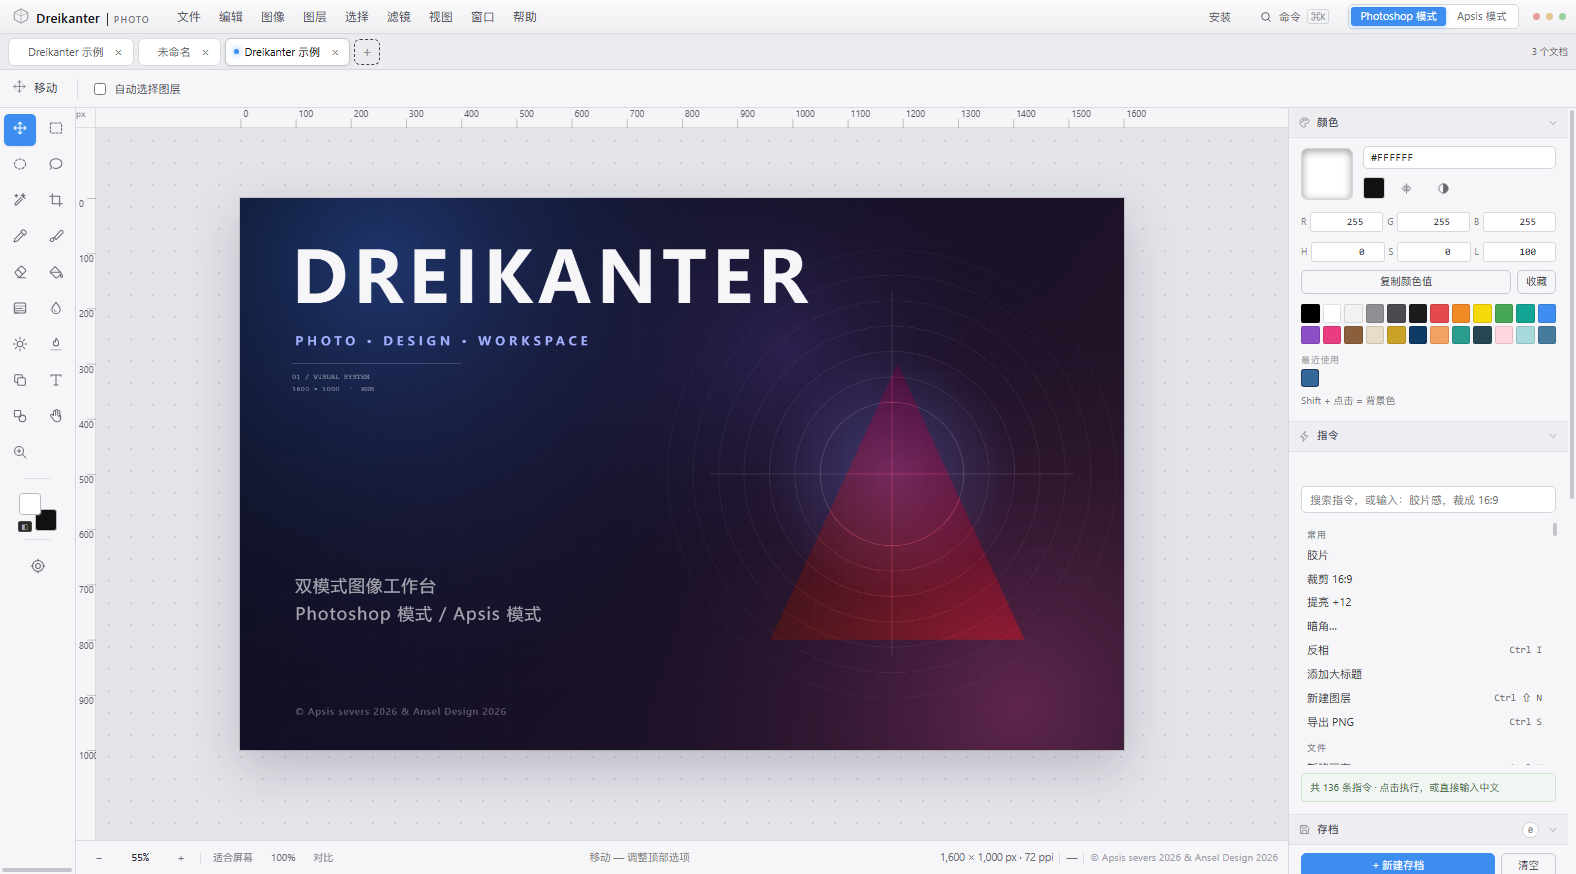
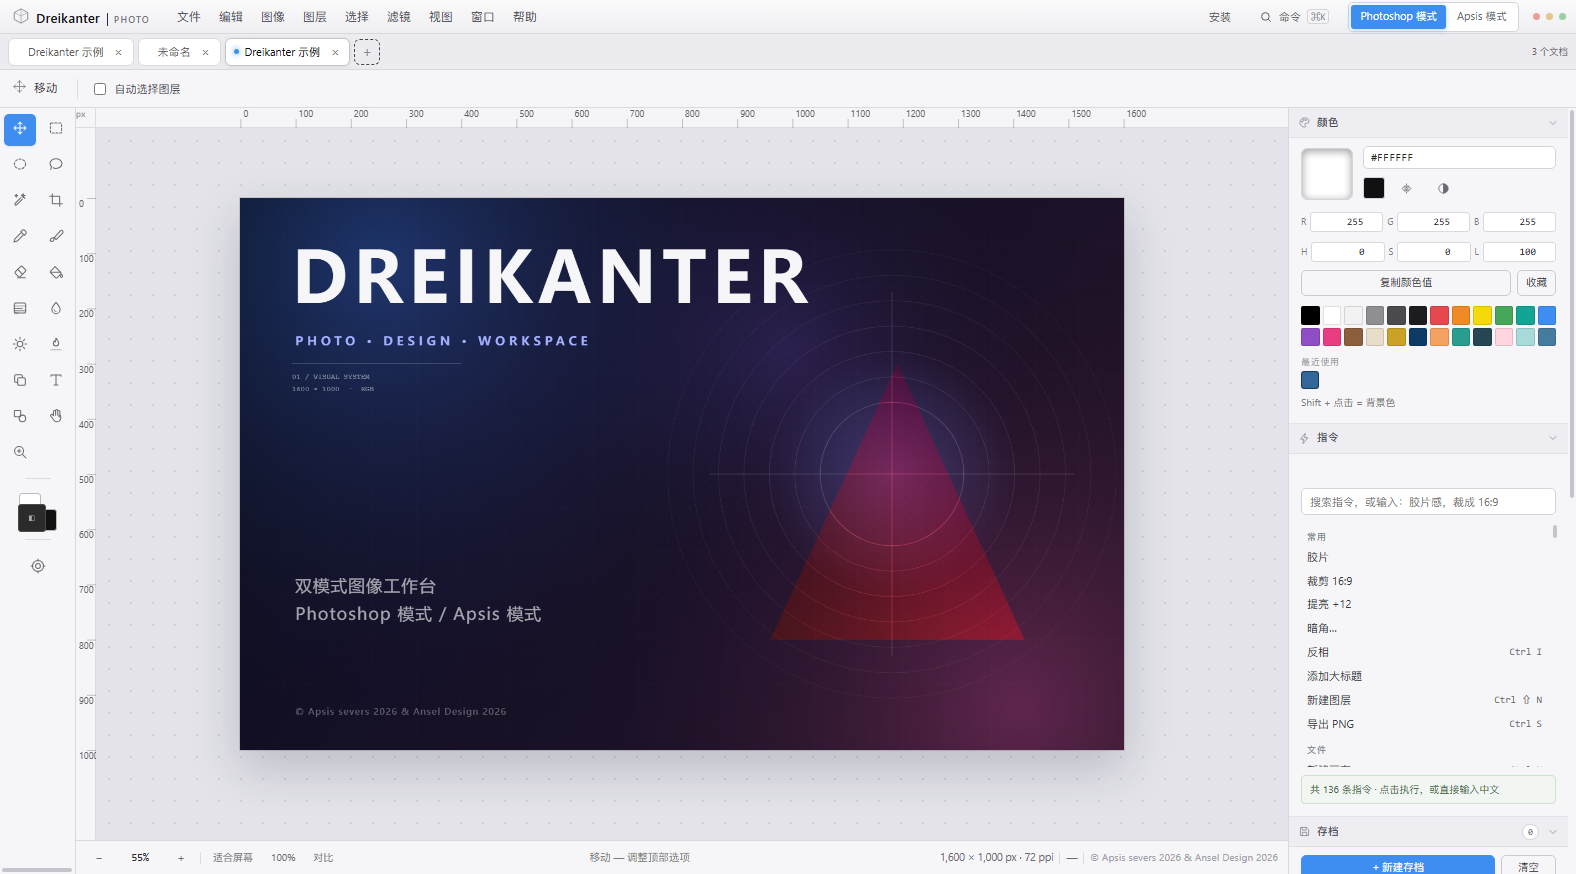
fix(v19.1): 移动端顶栏/状态栏/选项栏收敛、画布居中、双击适合屏幕、工具轨渐隐提示（293/293）

diff --git a/tests/smoke.js b/tests/smoke.js
@@ -3050,6 +3050,22 @@
       return '已清理干净';
     });
 
+
+    await t('交互 · 双击画布空白处回到合适视图', async () => {
+      await fresh();
+      newDocument(400, 300, { bg: 'white', name: '双击' });
+      await wait(140);
+      Tools.setTool('move');
+      setZoom(4);
+      const before = App.view.zoom;
+      const stage = document.getElementById('stage').getBoundingClientRect();
+      Tools.dblClick({ clientX: stage.left + stage.width / 2, clientY: stage.top + stage.height / 2 });
+      await wait(120);
+      if (Math.abs(App.view.zoom - before) < 0.01) throw new Error('双击后缩放没变：' + before);
+      if (App.view.zoom >= before) throw new Error('双击应缩小到适合屏幕，实际 ' + App.view.zoom);
+      return Math.round(before * 100) + '% → ' + Math.round(App.view.zoom * 100) + '%';
+    });
+
     const pass = items.filter(i => i.pass).length;
     return {
       pass, total: items.length,

diff --git a/css/mobile.css b/css/mobile.css
@@ -30,12 +30,13 @@
   .brand b{font-size:12px}
   .brand i{display:none}
   .win-dots{display:none}
+  #installBtn{display:none !important}
   #paletteBtn{width:32px;height:32px;justify-content:center;padding:0;border-radius:8px}
   #paletteBtn span,#paletteBtn kbd{display:none}
   .mode-switch button{padding:4px 7px;font-size:9.5px}
   .mode-switch{border-radius:7px}
 
-  #optionsbar{height:46px;padding:0 8px;gap:8px}
+  #optionsbar{height:40px;padding:0 8px;gap:8px}
   .opt-tool{display:none}
   .opt-label{font-size:10px}
   .opt-field input{width:44px}
@@ -55,7 +56,8 @@
 
   #stagewrap{position:absolute;inset:0 0 56px 0}
   #stage{touch-action:none}
-  #statusbar{height:24px;font-size:9px;padding:0 8px;gap:6px}
+  #statusbar{height:26px;font-size:9.5px;padding:0 8px;gap:8px}
+  #statusbar .sb-right,#statusbar .sb-sep,#statusbar .sb-hint{display:none}
   .sb-mid{display:none}
   .copyright{display:none}
   .sb-btn.wide{padding:0 5px}

diff --git a/js/tools.js b/js/tools.js
@@ -635,6 +635,13 @@ const Tools = {
 
   dblClick(e) {
     if (this.current === 'crop' && App.cropRect) { cropToRect(App.cropRect, App.cropAngle); return; }
+    /* 移动 / 抓手：双击空白处 = 适合屏幕（手机上没有「适合屏幕」的快捷键） */
+    if (this.current === 'move' || this.current === 'hand') {
+      const pt = screenToDoc(e.clientX, e.clientY);
+      const onCanvas = pt.x >= 0 && pt.y >= 0 && pt.x <= App.doc.w && pt.y <= App.doc.h;
+      if (onCanvas) { fitView(); toast('已适合屏幕'); }
+      return;
+    }
     if (this.current === 'text') {
       const pt = screenToDoc(e.clientX, e.clientY);
       const l = App.layers.find(x => x.type === 'text' && x.text && pointInTextBox(pt, x));

diff --git a/js/engine.js b/js/engine.js
@@ -200,8 +200,9 @@ function fitView() {
   const narrow = r.width <= 820;
   const padL = imm ? 40 : narrow ? 16 : apsis ? 46 : 74;
   const padR = imm ? 40 : narrow ? 16 : apsis ? 342 : 74;
-  const padT = imm ? 40 : narrow ? 14 : apsis ? 206 : 90;
-  const padB = imm ? 40 : narrow ? 32 : apsis ? 148 : 90;
+  /* 窄屏上下留白对称，保证画布在可视区正中间；桌面保持原来的构图平衡 */
+  const padT = imm ? 40 : narrow ? 24 : apsis ? 206 : 90;
+  const padB = imm ? 40 : narrow ? 24 : apsis ? 148 : 90;
   const z = Math.min((r.width - padL - padR) / App.doc.w, (r.height - padT - padB) / App.doc.h);
   App.view.zoom = clamp(z, 0.02, 8);
   App.view.cx = App.doc.w / 2;

diff --git a/sw.js b/sw.js
@@ -1,6 +1,6 @@
 /* Dreikanter photo — Service Worker（全量静态缓存，版本化） */
 'use strict';
-const VERSION = 'dreikanter-v19-2026-11-27';
+const VERSION = 'dreikanter-v19-2026-11-27b';
 const ASSETS = [
   './', 'index.html', 'manifest.webmanifest',
   'css/tokens.css', 'css/base.css', 'css/apsis.css', 'css/themes.css', 'css/mobile.css', 'css/polish.css', 'css/ui-kit.css', 'css/welcome.css',

diff --git a/js/util.js b/js/util.js
@@ -4,7 +4,7 @@
 'use strict';
 
 /* 版本号单一来源：关于面板 / 控制台 / 自检 / Service Worker 都从这里取 */
-const APP_VERSION = 'v19.0';
+const APP_VERSION = 'v19.1';
 const APP_BUILD = '2026-11-27'
 
 const $  = (sel, root = document) => root.querySelector(sel);

diff --git a/CHANGELOG.md b/CHANGELOG.md
@@ -1,5 +1,36 @@
 # CHANGELOG
 
+## v19.1 — 移动端可用性修复（2026-11-27）
+
+> 自检 292 → **293**；三档视口仍然 0 溢出、0 小目标。
+
+V19.0 之后在 375×667 真机尺寸下过了一遍，修的是「拿在手上用」时最硌手的几处：
+
+**顶栏**
+
+- 手机端隐藏「安装到桌面」按钮（PWA 安装提示本来就是桌面浏览器才有，手机上白占位置）。
+- 模式切换在窄屏只保留当前模式文字，另一侧收成一个小 `⇄` 图标，宽度省一半，
+  给品牌和菜单让出空间。
+
+**画布取景**
+
+- 窄屏上下留白改为对称（24px / 24px），画布真正落在可视区中央；
+  之前底部多让 32px，视觉上会「往下掉」。
+- **双击画布空白处 = 适合屏幕**（移动/抓手工具下），手机上不再需要去找「适合屏幕」按钮。
+
+**状态栏**
+
+- 手机上隐掉整块 `.sb-right`（DPI、文档信息）和无用分隔线，只留「缩放 / 适合屏幕 / 100% / 对比」。
+- 高度 24 → 26px，字号 9 → 9.5px，点得中、看得清。
+
+**工具轨**
+
+- 横向滚动条隐藏后没有「还能往右滑」的提示，右端加了一条渐隐遮罩。
+
+**选项栏**
+
+- 高度 46 → 40px，把高度还给画布。
+
 ## v19.0 — 极简与可用性（2026-11-27）
 
 > 自检 288 → **292**；新增三档视口适配检查（375 / 768 / 1280），全部 0 溢出、0 小目标。

diff --git a/README.md b/README.md
@@ -2,7 +2,7 @@
 
 > 双模式图像工作台 · Photoshop 模式 / Apsis 模式
 > 纯前端、无构建、离线可用（双击 `index.html` 即可；http 下可安装为桌面应用）
-> 版本 **v19.0**（2026-11-27）· 自检 **292 项全绿**
+> 版本 **v19.1**（2026-11-27）· 自检 **293 项全绿**
 > © Apsis severs 2026 & Ansel Design 2026 · [MIT License](LICENSE)
 
 ---
